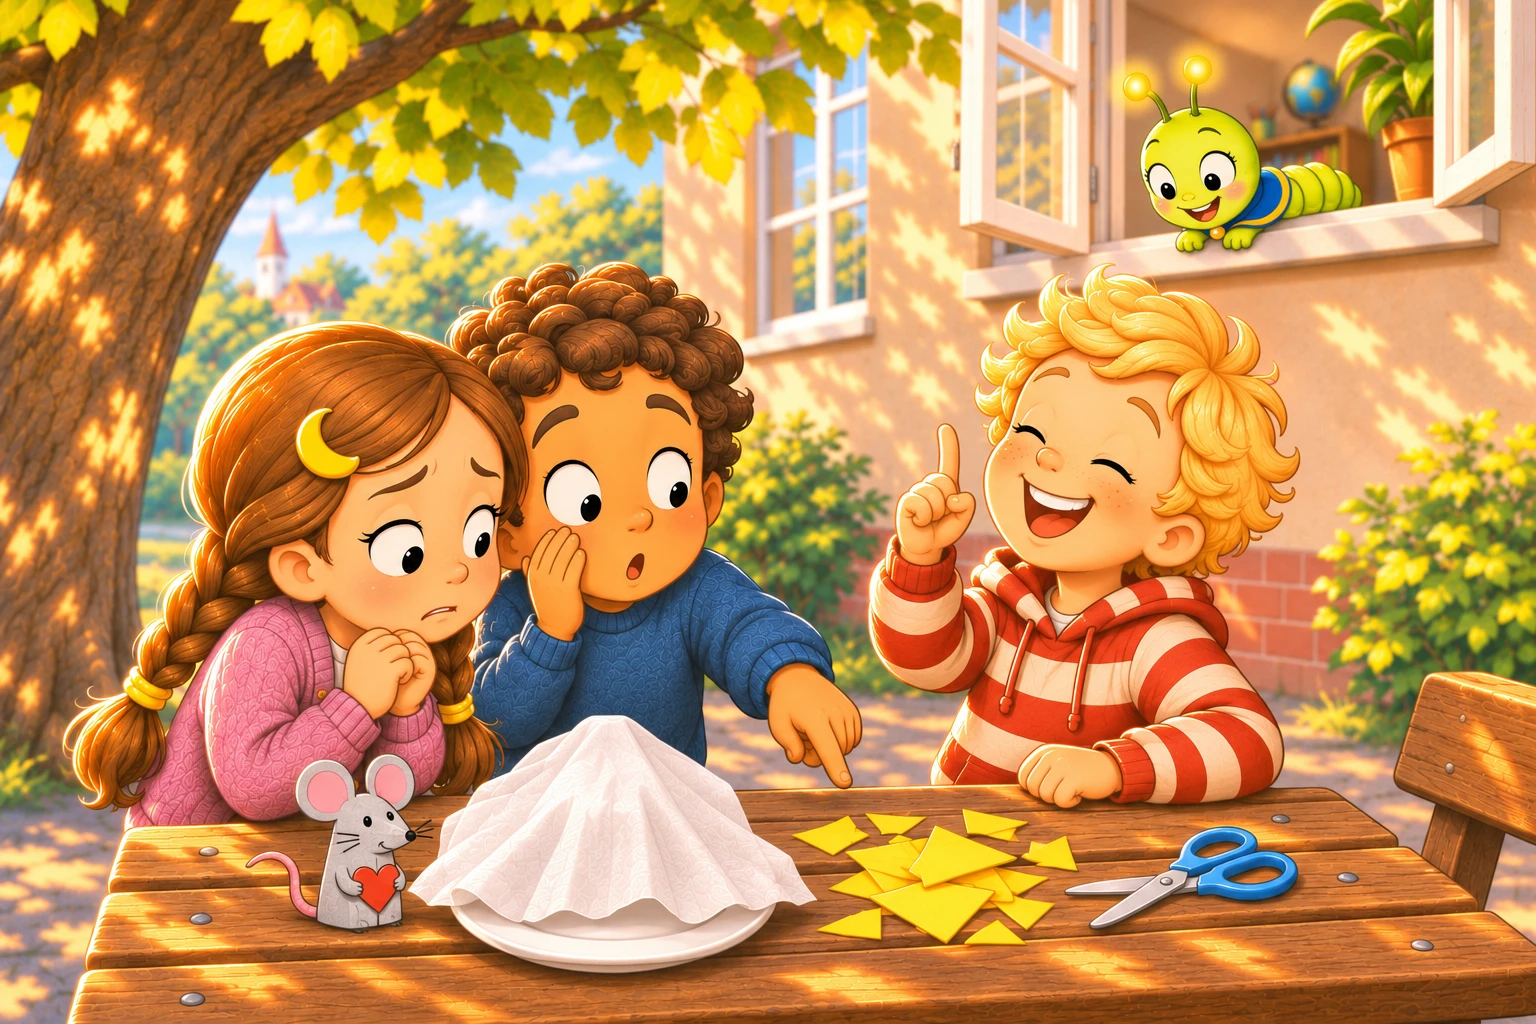
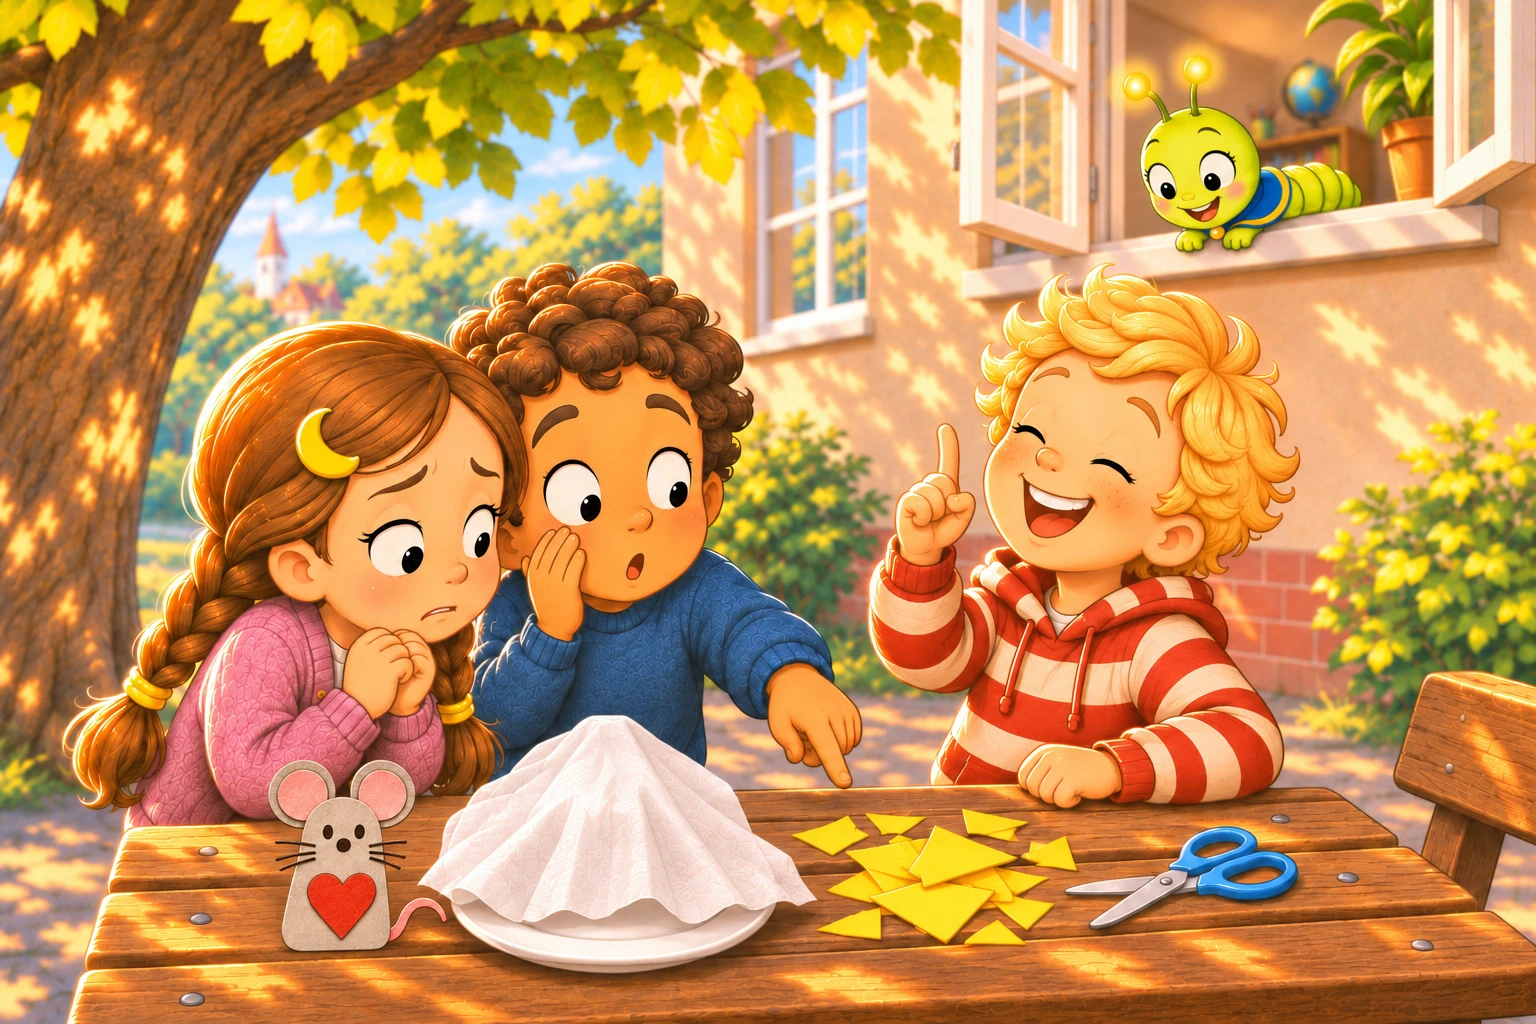
k2_s12: Papiermaus vereinheitlicht
Claude-Session: https://claude.ai/code/session_01XbiCnEqQP9NvUt61GCCstW

diff --git a/02_design/BILDER_STATUS.md b/02_design/BILDER_STATUS.md
@@ -6,7 +6,7 @@
 
 **k4_s20_spiel** — ✅ готово.
 
-**Мышь** — ✅ исправлена во всех 10 картинках (плоская бумажная, эталон `assets/reference/maus_referenz.png`).
+**Мышь** — ✅ исправлена во всех картинках (11, включая k2_s12) (плоская бумажная, эталон `assets/reference/maus_referenz.png`).
 
 **Крыша театра** — низкая ровная дуга между шариками, как в k1_s1 (эталон `assets/reference/theater_dach_referenz.png`). Исправить: k1_s2_nachher, k4_s20_vorher, k4_s20_nachher (мышь уже исправлена — править только крышу), k4_s24, cover, k4_s22, k4_s23, finale_bild.
 
